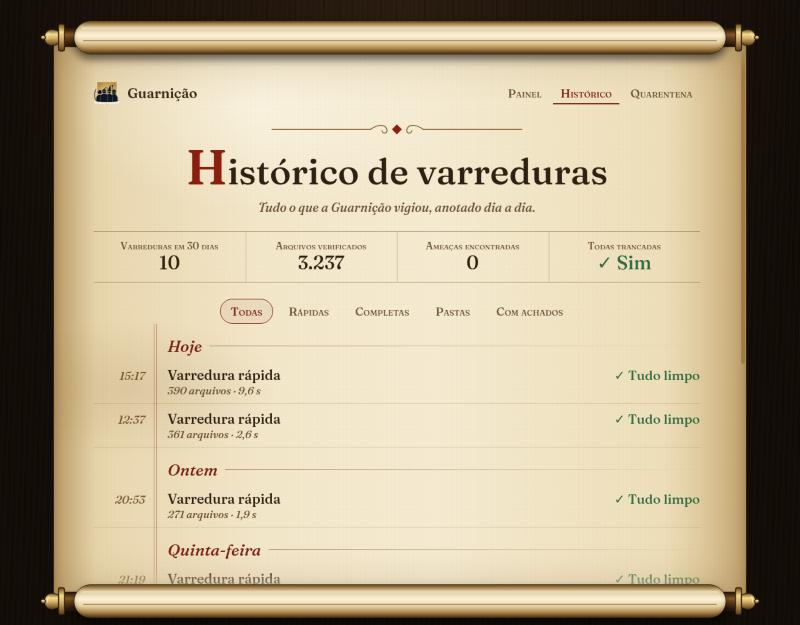
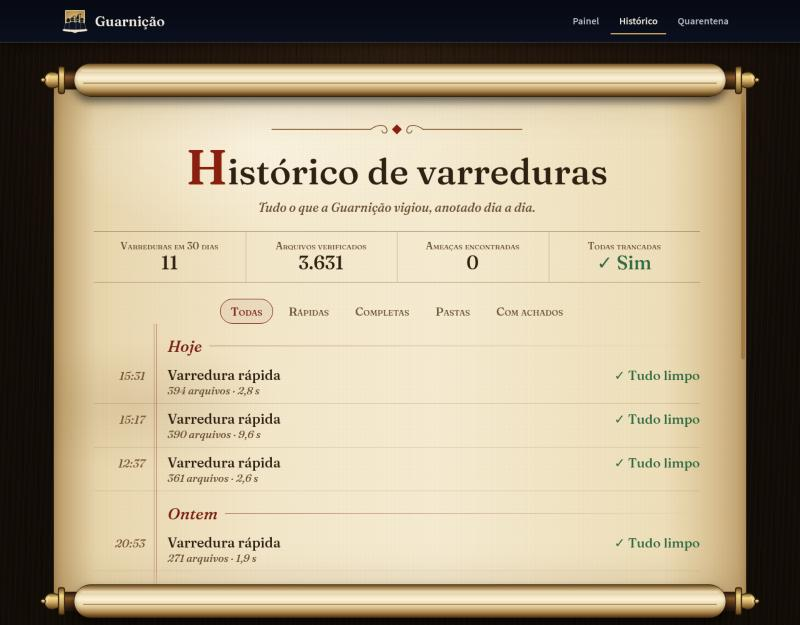
Docs: README novo com a animação e as três telas
A animação de uma varredura abre o README. A seção do painel explica os
quatro guardiões, o que o céu e o braseiro querem dizer, e mostra o
Painel, o Histórico e a Quarentena com fotos atuais (com a barra no alto).

diff --git a/README.md b/README.md
@@ -8,7 +8,7 @@ Antivírus para Linux. Bloqueia ameaças antes de elas executarem, vigia os down
 e os processos e varre o sistema com ClamAV, regras YARA e os hashes do
 MalwareBazaar, atualizados de hora em hora.
 
-![O painel: os quatro guardiões no alto da muralha, cada um cuidando de uma parte](docs/imagens/painel.jpg)
+![Uma varredura no painel: os guardiões acendem as tochas, o Cavaleiro acha um arquivo perigoso e o Carcereiro tranca](docs/imagens/guarnicao.gif)
 
 ## Como funciona
 
@@ -36,12 +36,55 @@ você decide no painel.
 .venv/bin/python -m guardiao launcher
 ```
 
-Uma página local, a Guarnição, com três telas: o **Painel**, de onde se disparam as
-varreduras e a caçada de invasores escondidos; o **Histórico**, anotado num
-pergaminho; e a **Quarentena**, a cela onde ficam os arquivos trancados, com
-Devolver e Apagar. Nada sai do computador, nem as fontes.
+Abre uma página local, a Guarnição, desenhada como um livro de fantasia. Uma
+barra no alto leva às três telas, sempre no mesmo lugar; clicar no emblema volta
+ao Painel. Tudo roda no próprio computador, sem nada vindo da internet, nem as
+fontes. O painel nunca roda como root e só liga serviços mostrando o comando para
+você rodar.
 
-![O histórico de varreduras, anotado dia a dia](docs/imagens/historico.jpg)
+### Os quatro guardiões
+
+Cada camada de detecção é um personagem no alto da muralha:
+
+| Guardião | Cuida de | O que faz |
+|---|---|---|
+| **O Cavaleiro** | Assinaturas | Reconhece ameaças já conhecidas: os hashes do MalwareBazaar e a base do ClamAV |
+| **A Arqueira** | Regras | Mira nos padrões das regras YARA que denunciam famílias de malware |
+| **O Vidente** | Sinais suspeitos | Percebe o que parece perigoso mesmo sem assinatura, e conduz a caçada de invasores escondidos |
+| **O Carcereiro** | Quarentena | Tranca só o que você mandar, e devolve quando você pedir |
+
+Durante uma varredura, quem está trabalhando acende a tocha. Quando um deles acha
+algo, o retrato dele brilha e o nome da ameaça aparece embaixo.
+
+### Painel: a muralha
+
+![O painel: a muralha com os quatro guardiões, as ações e o que roda em segundo plano](docs/imagens/painel.jpg)
+
+O céu conta como está o computador: noite calma com lua quando está tudo limpo, e
+fogo no horizonte quando há algo perigoso esperando decisão; fumaça no braseiro
+da torre quando as bases estão velhas ou um serviço está desligado. No alto ficam a última
+varredura, quantos arquivos foram conferidos e a idade das bases. Embaixo, os
+botões (varredura rápida, completa, de uma pasta, e a caçada de invasores), o
+estado dos serviços em segundo plano e as últimas varreduras.
+
+### Histórico: o pergaminho
+
+![O histórico: as varreduras anotadas dia a dia num pergaminho](docs/imagens/historico.jpg)
+
+Cada varredura vira uma linha no pergaminho, agrupada por dia, com o tipo, a
+duração, quantos arquivos e o resultado; quando algo foi achado, aparece também
+qual guardião achou. Os filtros separam as rápidas, as completas, as de uma pasta e
+as que tiveram achados. No pé, a Guarnição assina com um selo de cera.
+
+### Quarentena: a cela
+
+![A quarentena: os arquivos trancados presos na cela do Carcereiro](docs/imagens/quarentena.jpg)
+
+Os arquivos trancados ficam acorrentados atrás das grades, cada um com o motivo,
+o guardião que achou, a pasta de onde veio e quando foi trancado. Daqui eles não
+abrem nem rodam.
+**Devolver** põe o arquivo de volta no lugar original; **Apagar** pede uma
+confirmação e remove de vez.
 
 ## Detecção
 
